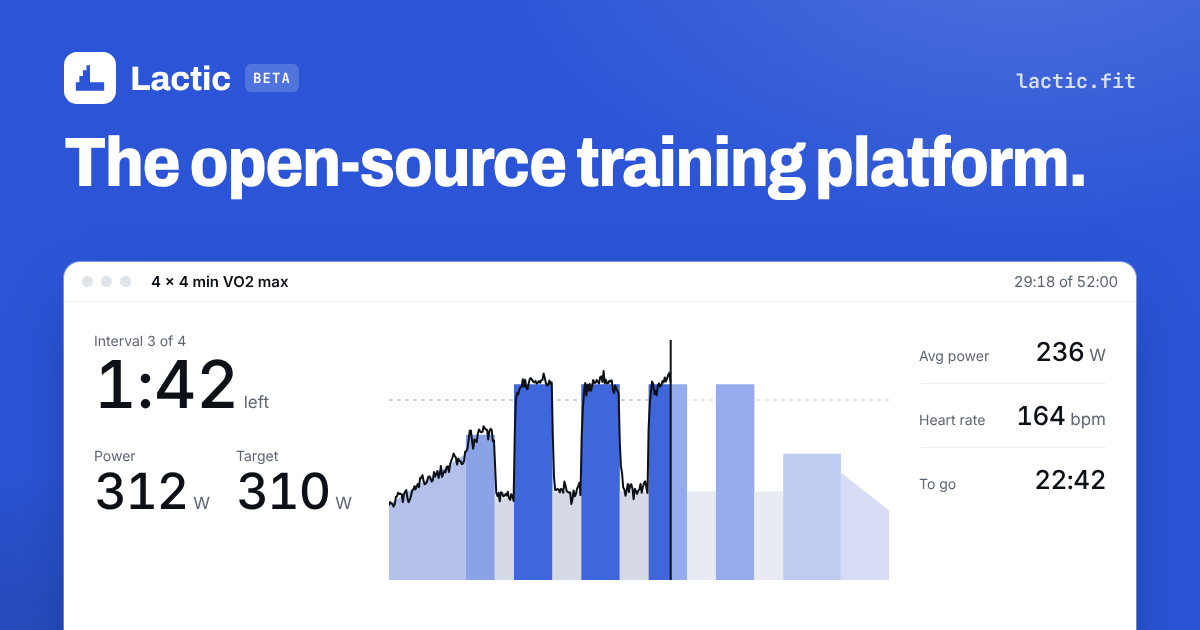
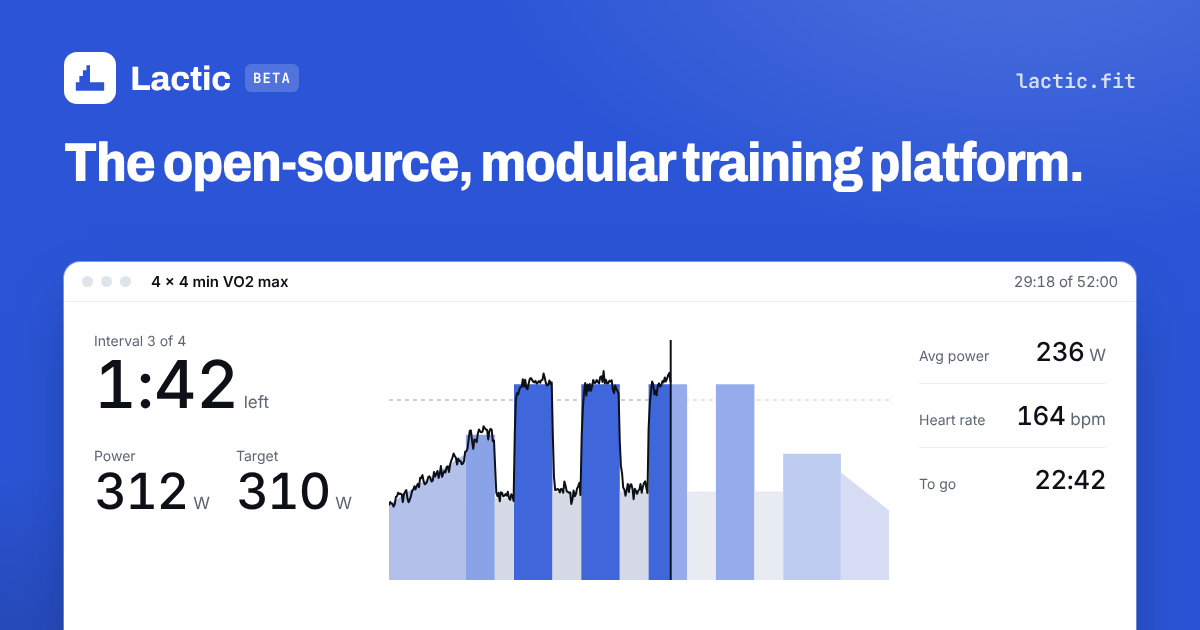
Site: modular tagline on the link preview card (#222)
Claude-Session: https://claude.ai/code/session_01WrmVQVX4M32ZFEM8EmVzFn

Changed region(s): [[0.0308, 0.2111, 0.925, 0.3317]]

diff --git a/docs/og-card.html b/docs/og-card.html
@@ -9,7 +9,7 @@ body{width:1200px;height:630px;overflow:hidden;background:#2b55d6;color:#fff;fon
 .name{font-size:34px;font-weight:750;letter-spacing:-.01em}
 .beta{font:600 14px "JetBrains Mono",monospace;letter-spacing:.08em;text-transform:uppercase;background:rgba(255,255,255,.18);padding:5px 8px;border-radius:6px}
 .url{position:absolute;right:64px;top:68px;font:600 20px "JetBrains Mono",monospace;color:rgba(255,255,255,.8)}
-h1{position:absolute;left:64px;top:128px;margin:0;font-size:70px;line-height:1;font-weight:800;font-stretch:88%;letter-spacing:-.025em;white-space:nowrap}
+h1{position:absolute;left:64px;top:136px;margin:0;font-size:55px;line-height:1;font-weight:800;font-stretch:88%;letter-spacing:-.025em;white-space:nowrap}
 .win{position:absolute;left:64px;right:64px;top:262px;height:420px;background:#fff;border-radius:16px;color:#0d1117;font-family:Inter,sans-serif;box-shadow:0 30px 60px -20px rgba(8,20,70,.55),0 0 0 1px rgba(255,255,255,.4)}
 .bar{height:40px;display:flex;align-items:center;gap:8px;padding:0 18px;border-bottom:1px solid #eceff4}
 .dot{width:11px;height:11px;border-radius:50%;background:#dfe3ea}
@@ -28,7 +28,7 @@ h1{position:absolute;left:64px;top:128px;margin:0;font-size:70px;line-height:1;f
 </style></head><body><div class="glow"></div>
 <div class="top"><div class="mark"><svg viewBox="0 0 24 24" width="34" height="34"><path d="M2 21V15H4.5V10.5H7V6.5H9.5V3H12V15H22V21Z" fill="#2b55d6"/></svg></div><span class="name">Lactic</span><span class="beta">Beta</span></div>
 <div class="url">lactic.fit</div>
-<h1>The open-source training platform.</h1>
+<h1>The open-source, modular training platform.</h1>
 <div class="win">
   <div class="bar"><span class="dot"></span><span class="dot"></span><span class="dot"></span><span class="t">4 × 4 min VO2 max</span><span class="r num">29:18 of 52:00</span></div>
   <div class="body">

diff --git a/site/index.html b/site/index.html
@@ -14,12 +14,12 @@
 <meta property="og:image:width" content="1200">
 <meta property="og:image:height" content="630">
 <meta property="og:image:type" content="image/png">
-<meta property="og:image:alt" content="Lactic Beta: The open-source training platform. The ride screen mid-workout, showing interval time left, power, target and a workout chart.">
+<meta property="og:image:alt" content="Lactic Beta: The open-source, modular training platform. The ride screen mid-workout, showing interval time left, power, target and a workout chart.">
 <meta name="twitter:card" content="summary_large_image">
 <meta name="twitter:title" content="The open-source, modular training platform.">
 <meta name="twitter:description" content="Training, your way. Free, open-source structured training for cyclists. Arrange every screen, add plugins, bring your own AI coach or none.">
 <meta name="twitter:image" content="https://lactic.fit/og-image.png">
-<meta name="twitter:image:alt" content="Lactic Beta: The open-source training platform.">
+<meta name="twitter:image:alt" content="Lactic Beta: The open-source, modular training platform.">
 <meta name="theme-color" content="#2b55d6">
 <link rel="icon" href="/favicon.svg" type="image/svg+xml">
 <link rel="preconnect" href="https://fonts.googleapis.com">
